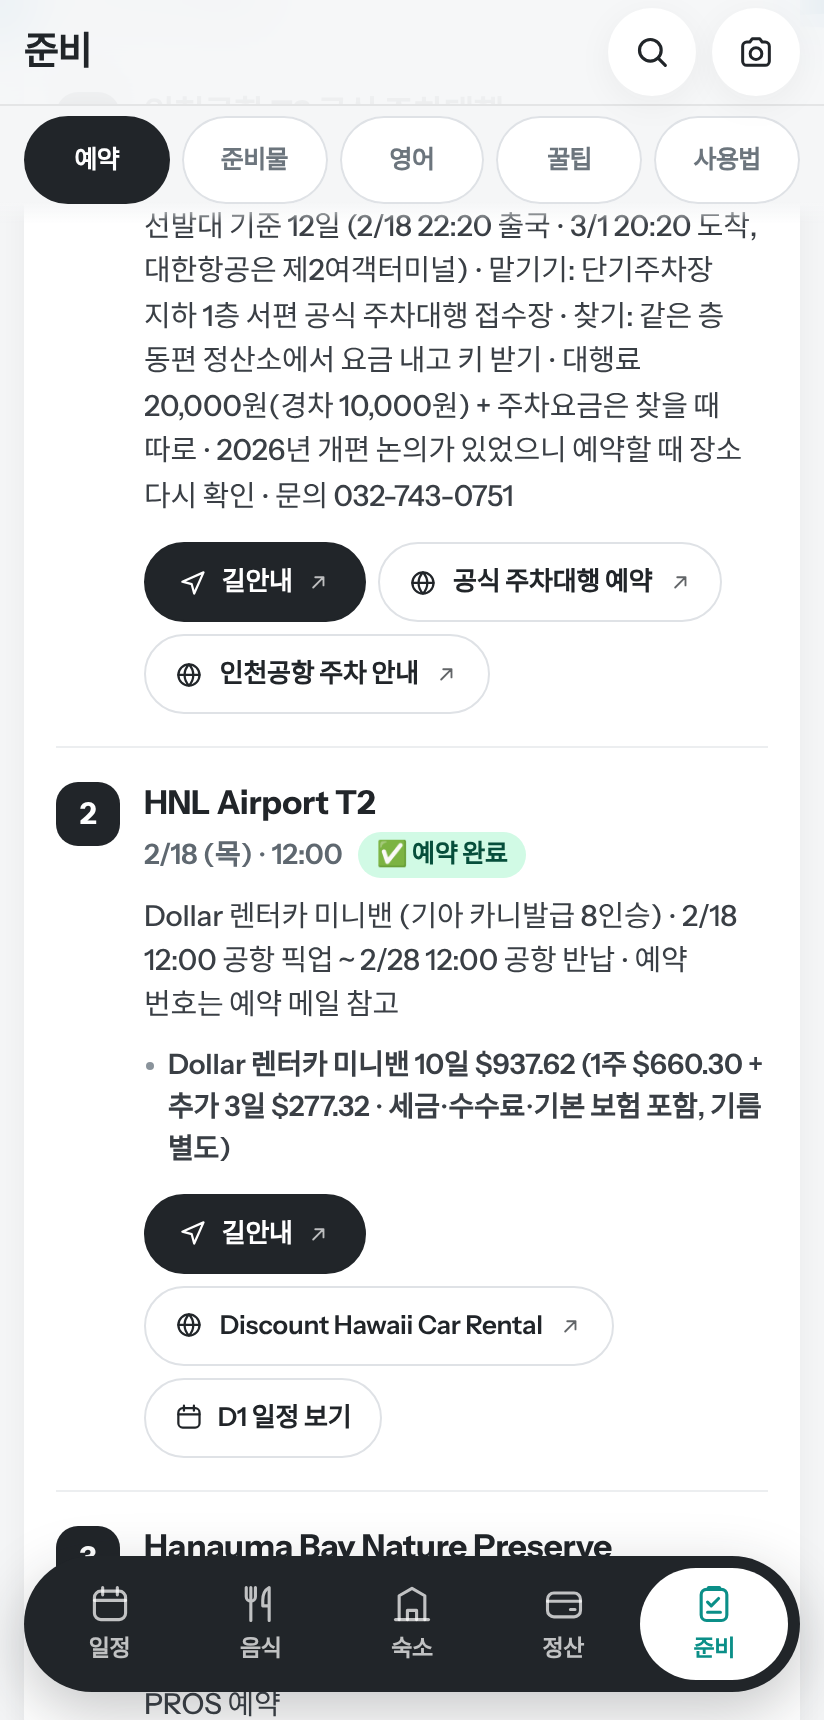
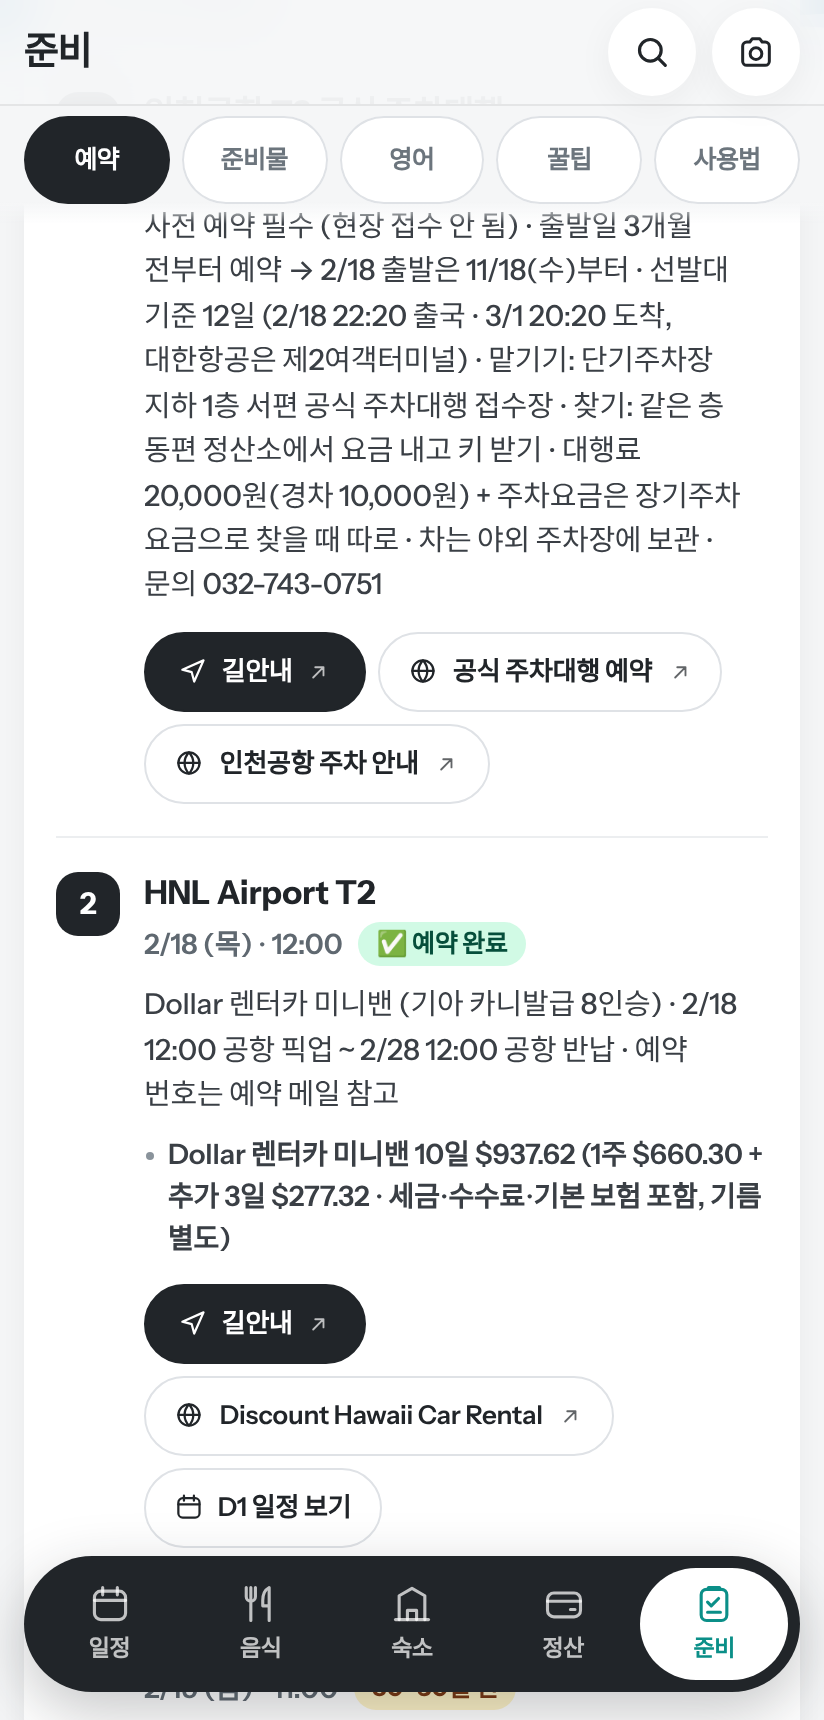
주차대행: 네이버 지도 길안내 · 3개월 전(11/18) 예약 오픈 반영
Claude-Session: https://claude.ai/code/session_01XsHFmjSb7HqLK9sVTsPP62

diff --git a/index.html b/index.html
@@ -17,7 +17,7 @@
   <link rel="icon" type="image/png" sizes="192x192" href="/icon-192.png?v=2">
   <link rel="apple-touch-icon" href="/apple-touch-icon.png?v=2">
   <!-- 화면 스타일: Tailwind를 미리 만든 파일 (index.html의 클래스가 바뀌면 tailwind.css를 다시 만들어야 함 · tailwind.config.js 참고) -->
-  <link rel="stylesheet" href="/tailwind.css?v=202611140716">
+  <link rel="stylesheet" href="/tailwind.css?v=202611140720">
   <!-- 지도(Leaflet) · 지출 저장소(Supabase): 이 사이트에 함께 올린 파일, 화면 표시를 막지 않도록 defer -->
   <link rel="stylesheet" href="/vendor/leaflet/leaflet.css">
   <script defer src="/vendor/leaflet/leaflet.js"></script>
@@ -3566,7 +3566,7 @@
     if (legQueue.length) setTimeout(pumpLegQueue, 1200);
   }
   function loadRoadLegs() {
-    fetch('/road-legs.json?v=202611140716').then(r => r.ok ? r.json() : {}).then(j => {
+    fetch('/road-legs.json?v=202611140720').then(r => r.ok ? r.json() : {}).then(j => {
       ROAD_LEGS = j || {};
       roadLegsLoaded = true;
       Object.keys(decodedLegs).forEach(k => delete decodedLegs[k]);
@@ -5829,8 +5829,8 @@
       costKeys: ["Charley's"], links: [{ label: "Charley's Taxi 공항 예약", url: 'https://www.charleystaxi.com/airport' }, { label: '하나택시 (마이리얼트립)', url: 'https://www.myrealtrip.com/guides/9170' }] } },
     { add: { place: 'hnl', time: '12:00', lead: '✅ 예약 완료', tone: 'emerald', note: 'Dollar 렌터카 미니밴 (기아 카니발급 8인승) · 2/18 12:00 공항 픽업 ~ 2/28 12:00 공항 반납 · 예약 번호는 예약 메일 참고',
       costKeys: ['Dollar'], links: [{ label: 'Discount Hawaii Car Rental', url: 'https://www.discounthawaiicarrental.com' }] } },
-    { add: { place: 'icn_valet', dirUrl: 'https://map.kakao.com/?q=' + encodeURIComponent('인천공항 제2여객터미널 단기주차장'), when: '2/18 (목) 맡김 → 3/1 (월) 찾기', order: -1, lead: '출발 전 예약', tone: 'sky',
-      note: '선발대 기준 12일 (2/18 22:20 출국 · 3/1 20:20 도착, 대한항공은 제2여객터미널) · 맡기기: 단기주차장 지하 1층 서편 공식 주차대행 접수장 · 찾기: 같은 층 동편 정산소에서 요금 내고 키 받기 · 대행료 20,000원(경차 10,000원) + 주차요금은 찾을 때 따로 · 2026년 개편 논의가 있었으니 예약할 때 장소 다시 확인 · 문의 032-743-0751',
+    { add: { place: 'icn_valet', dirUrl: 'https://map.naver.com/p/search/' + encodeURIComponent('인천공항 제2여객터미널 단기주차장'), when: '2/18 (목) 맡김 → 3/1 (월) 찾기', order: -1, lead: '3개월 전 (11/18 열림)', tone: 'rose',
+      note: '사전 예약 필수 (현장 접수 안 됨) · 출발일 3개월 전부터 예약 → 2/18 출발은 11/18(수)부터 · 선발대 기준 12일 (2/18 22:20 출국 · 3/1 20:20 도착, 대한항공은 제2여객터미널) · 맡기기: 단기주차장 지하 1층 서편 공식 주차대행 접수장 · 찾기: 같은 층 동편 정산소에서 요금 내고 키 받기 · 대행료 20,000원(경차 10,000원) + 주차요금은 장기주차 요금으로 찾을 때 따로 · 차는 야외 주차장에 보관 · 문의 032-743-0751',
       costKeys: [], links: [{ label: '공식 주차대행 예약', url: 'https://valet.amanopark.co.kr/' }, { label: '인천공항 주차 안내', url: 'https://www.airport.kr/' }] } },
     { add: { place: 'dole_farm', lead: '예약 없음', tone: 'sky', note: '워크업 투어는 예약 없이 현장 참여 · 당일 아침 매장(808-219-9398)에 운영 여부 전화 확인',
       costKeys: ['워크업'], links: [{ label: '농장 투어 안내', url: 'https://www.dolefruithawaii.com/pages/pineapple-farm-tours' }] } }

diff --git a/sw.js b/sw.js
@@ -4,7 +4,7 @@
 //   → 같은 이름으로 이미지를 바꿔도 다음번 열 때 반영됨
 // - 글꼴·배경 사진·지도 타일: 한 번 받으면 저장해 두고 재사용 (현지 데이터 절약 · 오프라인)
 // - Supabase(정산 데이터)·날씨 API: 저장하지 않음 (항상 최신)
-const VERSION = '202611140716';
+const VERSION = '202611140720';
 const CACHE = 'hawaii-portal-' + VERSION;
 const RUNTIME = 'hawaii-runtime-v1';
 const TILES = 'hawaii-tiles-v1';
